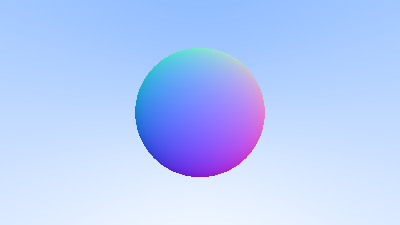
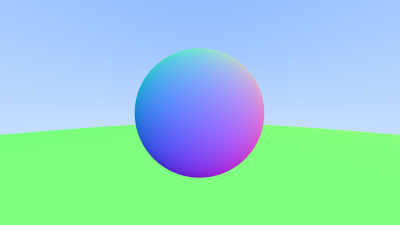
HittableList and Anti Aliasing

diff --git a/src/main.rs b/src/main.rs
@@ -1,11 +1,23 @@
+use std::io::Write;
+
+use hittable::Hittable;
+use utils::INFINITY;
+
+use crate::camera::Camera;
+use crate::hittable_list::HittableList;
+use crate::objects::Sphere;
 use crate::output_buffer::OutputBuffer;
 use crate::ray::Ray;
+use crate::utils::random;
 use crate::vec3::{Color, Point3, Vec3};
 
+mod camera;
 mod hittable;
+mod hittable_list;
 mod objects;
 mod output_buffer;
 mod ray;
+mod utils;
 mod vec3;
 
 fn main() {
@@ -13,31 +25,32 @@ fn main() {
     const IMAGE_WIDTH: u32 = 400;
     const IMAGE_HEIGHT: u32 = (IMAGE_WIDTH as f32 / ASPECT_RATIO) as u32;
     const NR_CHANNELS: u32 = 3;
+    const SAMPLES_PER_PIXEL: u32 = 100;
 
-    let viewport_height = 2.0;
-    let viewport_width = ASPECT_RATIO * viewport_height;
-    let focal_length = 1.0;
+    let mut world = HittableList::new();
+    world.add(Box::new(Sphere::new(Point3::new(0.0, 0.0, -1.0), 0.5)));
+    world.add(Box::new(Sphere::new(Point3::new(0.0, -100.5, -1.0), 100.0)));
 
-    let origin = Point3::from(0.0);
-    let horizontal = Vec3::new(viewport_width, 0.0, 0.0);
-    let vertical = Vec3::new(0.0, viewport_height, 0.0);
-    let lower_left_corner =
-        origin - horizontal / 2.0 - vertical / 2.0 - Vec3::new(0.0, 0.0, focal_length);
+    let cam = Camera::new();
 
     let mut buffer = OutputBuffer::new(IMAGE_WIDTH, IMAGE_HEIGHT, NR_CHANNELS);
 
     for j in (0..IMAGE_HEIGHT).rev() {
-        print!("\rScanlines remaining: {}", j);
-
+        print!("\rScanlines remaining: {:04}", j);
+        std::io::stdout().flush().unwrap();
+        
         for i in 0..IMAGE_WIDTH {
-            let u = (i as f32) / (IMAGE_WIDTH - 1) as f32;
-            let v = (j as f32) / (IMAGE_HEIGHT - 1) as f32;
-            let r = Ray::new(
-                origin,
-                lower_left_corner + u * horizontal + v * vertical - origin,
-            );
-            let pixel_color = ray_color(&r);
-            buffer.write_color(i, j, &pixel_color);
+            let mut pixel_color = Color::new(0.0, 0.0, 0.0);
+            
+            for _ in 0..SAMPLES_PER_PIXEL {
+                let u = ((i as f32) + random()) / (IMAGE_WIDTH - 1) as f32;
+                let v = ((j as f32) + random()) / (IMAGE_HEIGHT - 1) as f32;
+
+                let r = cam.get_ray(u, v);
+                pixel_color += ray_color(&r, &world);
+            }
+
+            buffer.write_color(i, j, &pixel_color, SAMPLES_PER_PIXEL);
         }
     }
 
@@ -65,31 +78,13 @@ fn main() {
     }
 }
 
-fn hit_sphere(center: Point3, radius: f32, ray: &Ray) -> f32 {
-    let oc = ray.origin - center;
-    let a = ray.direction.length_squared();
-    let half_b = Vec3::dot(&oc, &ray.direction);
-    let c = oc.length_squared() - radius * radius;
-    let discriminant = half_b * half_b - a * c;
-
-    if discriminant < 0.0 {
-        -1.0
-    } else {
-        (-half_b - f32::sqrt(discriminant)) / a
-    }
-}
-
-fn ray_color(r: &Ray) -> Color {
-    let mut t = hit_sphere(Point3::new(0.0, 0.0, -1.0), 0.5, r);
-    if t > 0.0 {
-        let n = Vec3::unit_vector(r.at(t) - Vec3::new(0.0, 0.0, -1.0));
-        return 0.5 * Color::new(n.x + 1.0, n.y + 1.0, n.z + 1.0);
+fn ray_color(r: &Ray, world: &HittableList) -> Color {
+    let (hit, record) = world.hit(&r, 0.0, INFINITY);
+    if hit {
+        return 0.5 * (record.normal + Color::new(1.0, 1.0, 1.0));
     }
 
     let unit_direction = Vec3::unit_vector(r.direction);
-    t = 0.5 * (unit_direction.y + 1.0);
+    let t = 0.5 * (unit_direction.y + 1.0);
     (1.0 - t) * Color::from(1.0) + t * Color::new(0.5, 0.7, 1.0)
 }
-
-// TODO: continue from 6.5
-// https://raytracing.github.io/books/RayTracingInOneWeekend.html#surfacenormalsandmultipleobjects/alistofhittableobjects

diff --git a/src/hittable_list.rs b/src/hittable_list.rs
@@ -1,0 +1,54 @@
+use crate::{
+    hittable::{HitRecord, Hittable},
+    ray::Ray,
+};
+
+pub struct HittableList {
+    pub objects: Vec<Box<dyn Hittable>>,
+}
+
+impl HittableList {
+    pub fn new() -> Self {
+        Self {
+            objects: Vec::new(),
+        }
+    }
+
+    pub fn from(obj: Box<dyn Hittable>) -> Self {
+        let mut this = Self {
+            objects: Vec::new(),
+        };
+
+        this.objects.push(obj);
+
+        this
+    }
+
+    pub fn clear(&mut self) {
+        self.objects.clear();
+    }
+
+    pub fn add(&mut self, obj: Box<dyn Hittable>) {
+        self.objects.push(obj);
+    }
+}
+
+impl Hittable for HittableList {
+    fn hit(&self, ray: &Ray, t_min: f32, t_max: f32) -> (bool, HitRecord) {
+        let mut rec = HitRecord::empty();
+
+        let mut hit_anything = false;
+        let mut closest_so_far = t_max;
+
+        for object in self.objects.iter() {
+            let (hit, temp_rec) = object.hit(ray, t_min, closest_so_far);
+            if hit {
+                hit_anything = true;
+                closest_so_far = temp_rec.t;
+                rec = temp_rec;
+            }
+        }
+
+        (hit_anything, rec)
+    }
+}

diff --git a/src/output_buffer.rs b/src/output_buffer.rs
@@ -1,4 +1,4 @@
-use crate::vec3::Color;
+use crate::{utils::clamp, vec3::Color};
 
 pub struct OutputBuffer {
     buffer: Vec<u8>,
@@ -19,15 +19,20 @@ impl OutputBuffer {
         }
     }
 
-    pub fn write_color(&mut self, x: u32, y: u32, color: &Color) {
-        let ir: u8 = (255.999 * color.x) as u8;
-        let ig: u8 = (255.999 * color.y) as u8;
-        let ib: u8 = (255.999 * color.z) as u8;
+    pub fn write_color(&mut self, x: u32, y: u32, color: &Color, samples_per_pixel: u32) {
+        let mut r = color.x;
+        let mut g = color.y;
+        let mut b = color.z;
+
+        let scale = 1.0 / (samples_per_pixel as f32);
+        r *= scale;
+        g *= scale;
+        b *= scale;
 
         let idx = (((self.height - y - 1) * self.width + x) * self.nr_channels) as usize;
-        self.buffer[idx + 0] = ir;
-        self.buffer[idx + 1] = ig;
-        self.buffer[idx + 2] = ib;
+        self.buffer[idx + 0] = (256.0 * clamp(r, 0.0, 0.999)) as u8;
+        self.buffer[idx + 1] = (256.0 * clamp(g, 0.0, 0.999)) as u8;
+        self.buffer[idx + 2] = (256.0 * clamp(b, 0.0, 0.999)) as u8;
     }
 
     pub fn get_pixels(&self) -> &[u8] {

diff --git a/src/objects.rs b/src/objects.rs
@@ -16,7 +16,9 @@ impl Sphere {
 }
 
 impl Hittable for Sphere {
-    fn hit(&self, ray: &Ray, t_min: f32, t_max: f32, rec: &mut HitRecord) -> bool {
+    fn hit(&self, ray: &Ray, t_min: f32, t_max: f32) -> (bool, HitRecord) {
+        let mut rec = HitRecord::empty();
+
         let oc = ray.origin - self.center;
         let a = ray.direction.length_squared();
         let half_b = Vec3::dot(&oc, &ray.direction);
@@ -24,7 +26,7 @@ impl Hittable for Sphere {
 
         let discriminant = half_b * half_b - a * c;
         if discriminant < 0.0 {
-            return false;
+            return (false, rec);
         }
 
         let sqrtd = f32::sqrt(discriminant);
@@ -34,7 +36,7 @@ impl Hittable for Sphere {
         if root < t_min || t_max < root {
             root = (-half_b + sqrtd) / a;
             if root < t_min || t_max < root {
-                return false;
+                return (false, rec);
             }
         }
 
@@ -43,6 +45,6 @@ impl Hittable for Sphere {
         let outward_normal = (rec.p - self.center) / self.radius;
         rec.set_face_normal(ray, &outward_normal);
 
-        true
+        (true, rec)
     }
 }

diff --git a/src/camera.rs b/src/camera.rs
@@ -1,0 +1,40 @@
+use crate::{
+    ray::Ray,
+    vec3::{self, Point3, Vec3},
+};
+
+pub struct Camera {
+    origin: Point3,
+    lower_left_corner: Point3,
+    horiozontal: Vec3,
+    vertical: Vec3,
+}
+
+impl Camera {
+    pub fn new() -> Self {
+        let aspect_ratio = 16.0 / 9.0;
+        let viewport_height = 2.0;
+        let viewport_width = aspect_ratio * viewport_height;
+        let focal_length = 1.0;
+
+        let origin = Point3::new(0.0, 0.0, 0.0);
+        let horiozontal = Vec3::new(viewport_width, 0.0, 0.0);
+        let vertical = Vec3::new(0.0, viewport_height, 0.0);
+        let lower_left_corner =
+            origin - horiozontal / 2.0 - vertical / 2.0 - Vec3::new(0.0, 0.0, focal_length);
+
+        Self {
+            origin,
+            lower_left_corner,
+            horiozontal,
+            vertical,
+        }
+    }
+
+    pub fn get_ray(&self, u: f32, v: f32) -> Ray {
+        Ray::new(
+            self.origin,
+            self.lower_left_corner + u * self.horiozontal + v * self.vertical - self.origin,
+        )
+    }
+}

diff --git a/src/hittable.rs b/src/hittable.rs
@@ -3,6 +3,7 @@ use crate::{
     vec3::{Point3, Vec3},
 };
 
+#[derive(Clone, Copy)]
 pub struct HitRecord {
     pub p: Point3,
     pub normal: Vec3,
@@ -11,6 +12,15 @@ pub struct HitRecord {
 }
 
 impl HitRecord {
+    pub fn empty() -> Self {
+        Self {
+            p: Point3::new(0.0, 0.0, 0.0),
+            normal: Vec3::new(0.0, 0.0, 0.0),
+            t: 0.0,
+            front_face: false,
+        }
+    }
+
     pub fn set_face_normal(&mut self, ray: &Ray, outward_normal: &Vec3) {
         self.front_face = Vec3::dot(&ray.direction, outward_normal) < 0.0;
         self.normal = if self.front_face {
@@ -22,5 +32,5 @@ impl HitRecord {
 }
 
 pub trait Hittable {
-    fn hit(&self, ray: &Ray, t_min: f32, t_max: f32, rec: &mut HitRecord) -> bool;
+    fn hit(&self, ray: &Ray, t_min: f32, t_max: f32) -> (bool, HitRecord);
 }

diff --git a/src/utils.rs b/src/utils.rs
@@ -1,0 +1,28 @@
+use rand::Rng;
+
+pub const INFINITY: f32 = f32::INFINITY;
+pub const PI: f32 = 3.1415926535897932385;
+
+pub fn to_radians(degrees: f32) -> f32 {
+    degrees * PI / 180.0
+}
+
+pub fn random() -> f32 {
+    let mut rng = rand::thread_rng();
+    rng.gen::<f32>()
+}
+
+pub fn random_range(min: f32, max: f32) -> f32 {
+    let mut rng = rand::thread_rng();
+    rng.gen_range(min..max)
+}
+
+pub fn clamp(x: f32, min: f32, max: f32) -> f32 {
+    if x < min {
+        min
+    } else if x > max {
+        max
+    } else {
+        x
+    }
+}
